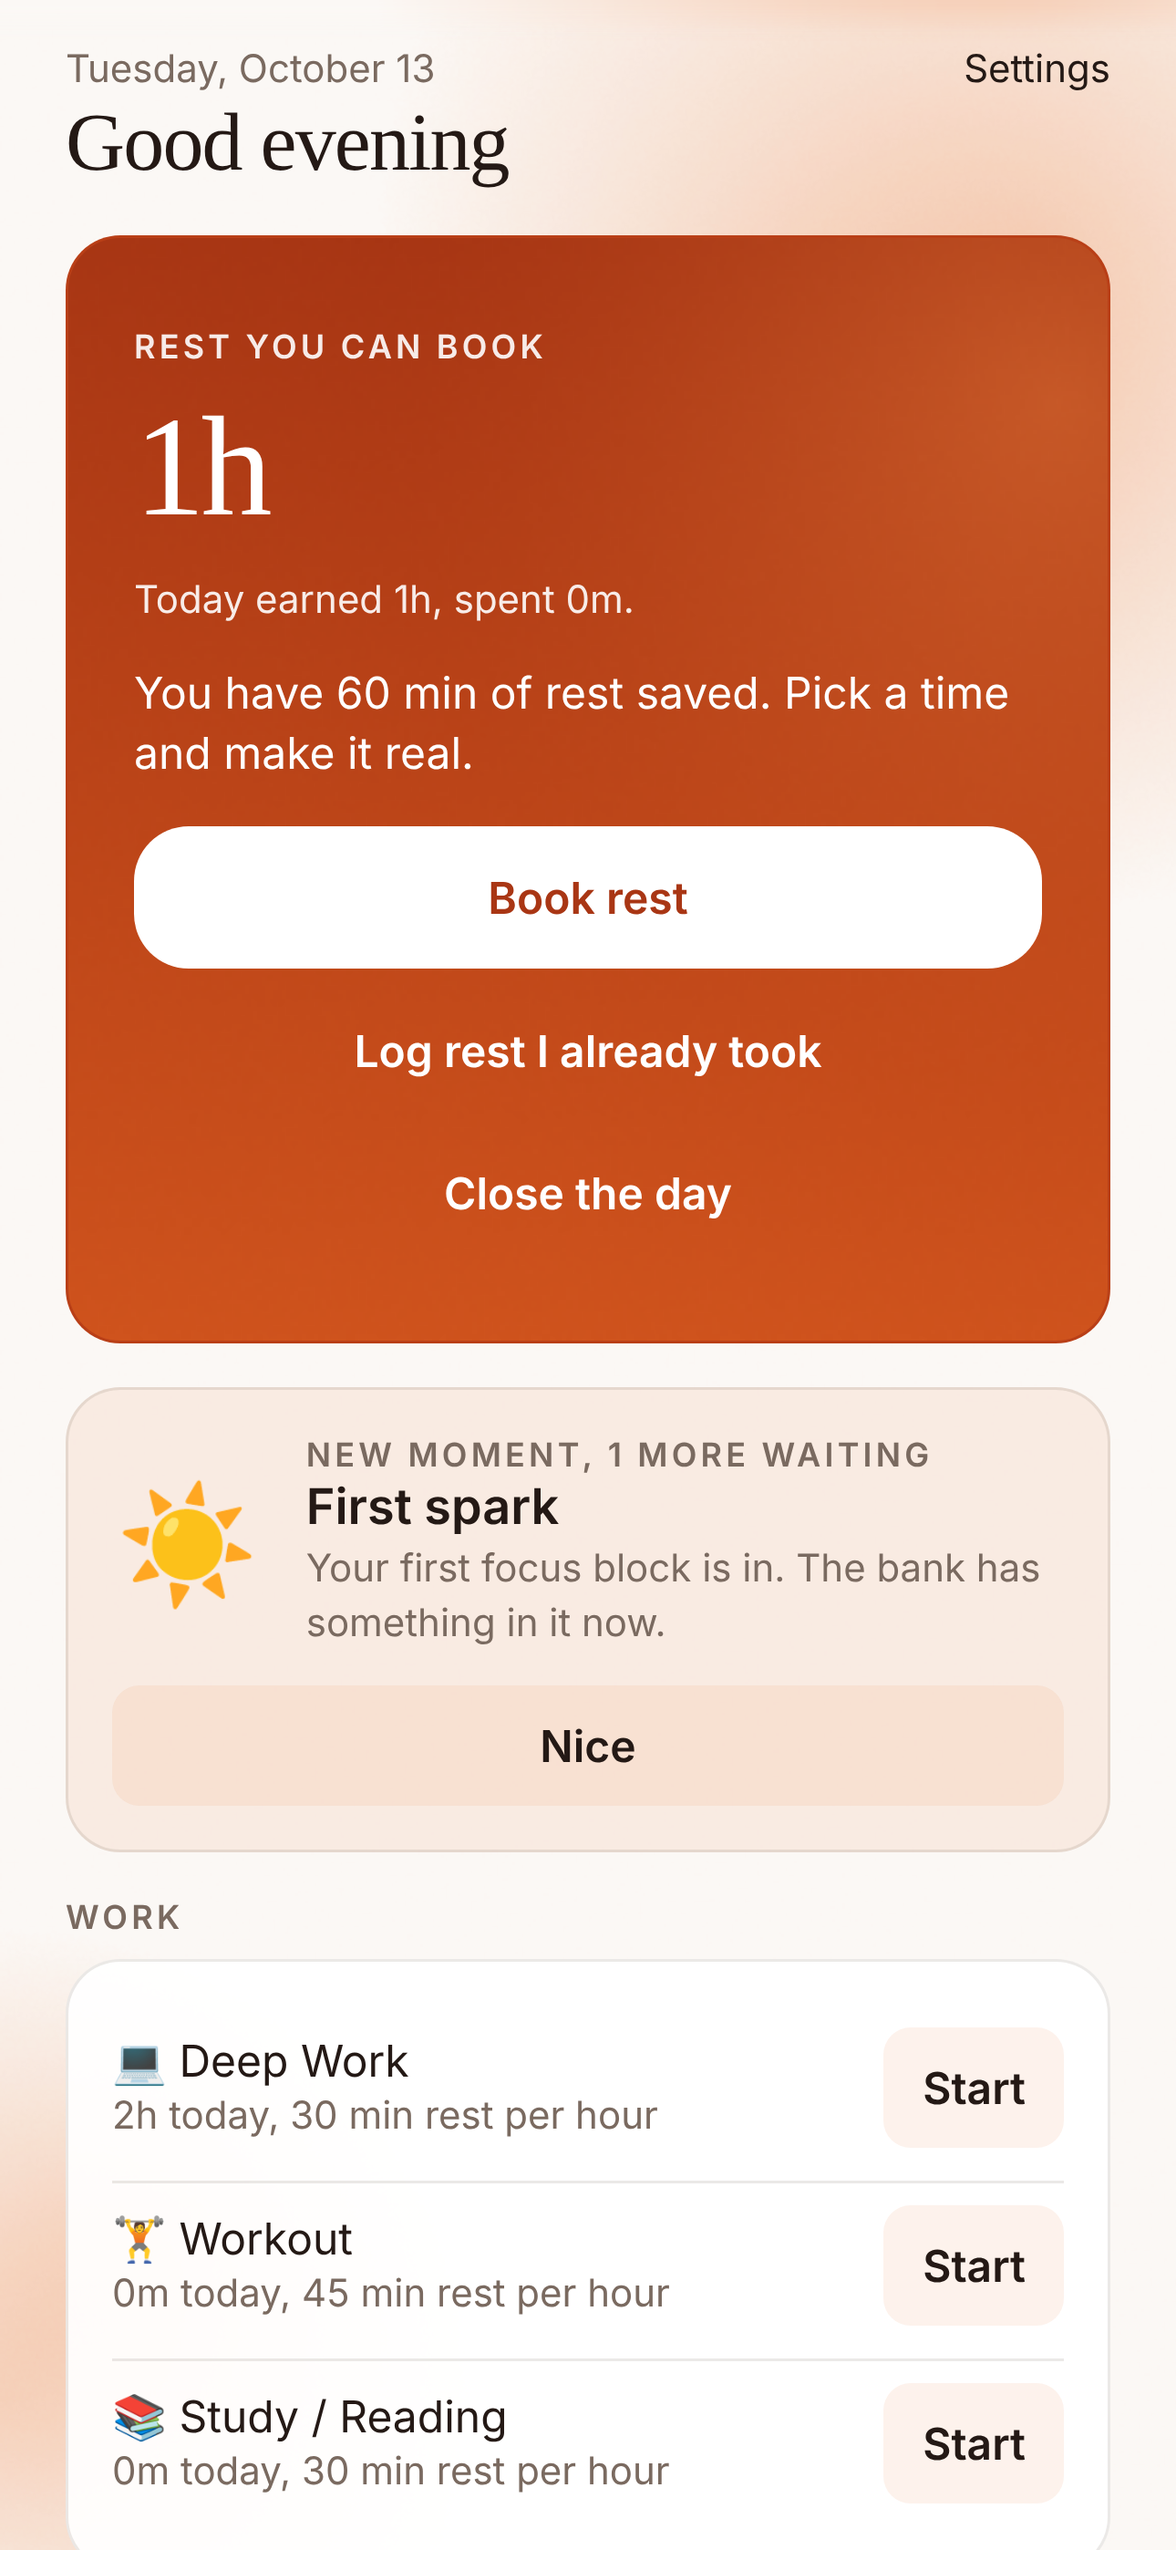
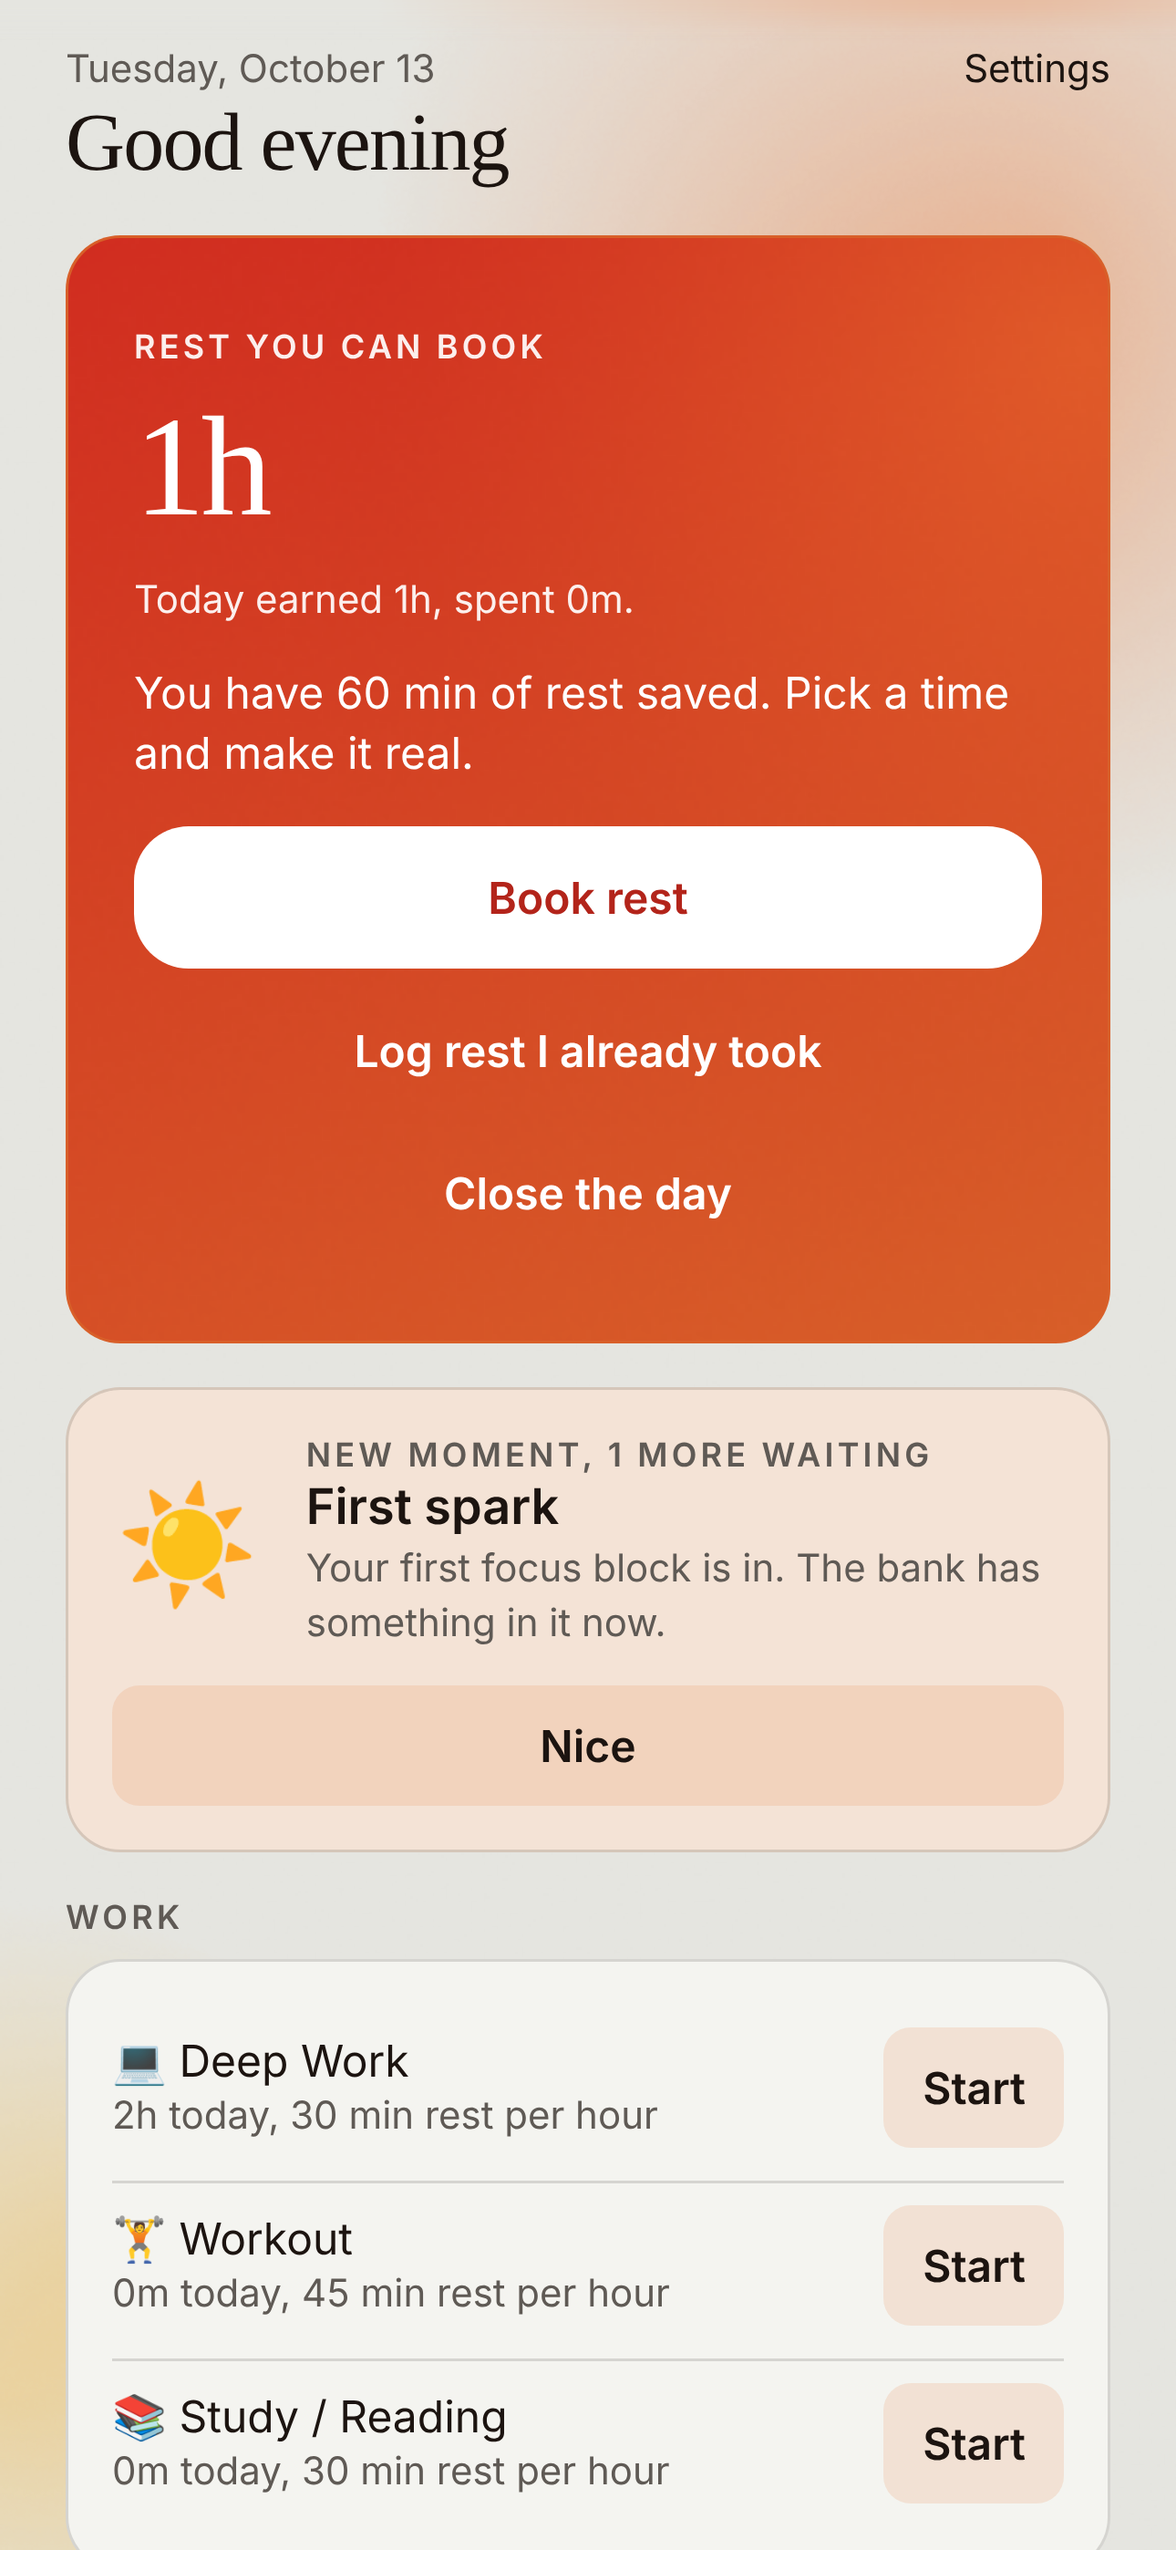
Take the palette strictly from the reference images
Colours are sampled from Mike's references: grey-white #e5e5e0, orange
#eb712e, amber #f0b846, red #d12d20 and the red-to-orange hero. Orbs are
orange top right and amber bottom left. Rest chips and rest bars use amber,
focus uses orange. Text stays dark, with a deeper red for small warning text.
Icon, splash, widget and store screenshots follow.

Claude-Session: https://claude.ai/code/session_019ffQuZEKGA3GPgQN2MLQP2

diff --git a/src/native/definitions.tsx b/src/native/definitions.tsx
@@ -30,30 +30,30 @@ export const RestWidget = createWidget('RestWidget', (props: WidgetSnapshot, env
 
   const status = focus ? (
     <HStack spacing={4}>
-      <Text modifiers={[font({ size: 12, weight: 'medium' }), foregroundStyle('#ffe2cf'), lineLimit(1)]}>Focus</Text>
+      <Text modifiers={[font({ size: 12, weight: 'medium' }), foregroundStyle('#e4dfcc'), lineLimit(1)]}>Focus</Text>
       <Text
         date={new Date(focus.startedAt)}
         dateStyle="timer"
-        modifiers={[font({ size: 12, weight: 'semibold' }), monospacedDigit(), foregroundStyle('#ffe2cf'), frame({ maxWidth: 70, alignment: 'leading' })]}
+        modifiers={[font({ size: 12, weight: 'semibold' }), monospacedDigit(), foregroundStyle('#e4dfcc'), frame({ maxWidth: 70, alignment: 'leading' })]}
       />
     </HStack>
   ) : next ? (
     <HStack spacing={4}>
-      <Text modifiers={[font({ size: 12 }), foregroundStyle('#ffe2cf'), lineLimit(1)]}>{next.title}</Text>
+      <Text modifiers={[font({ size: 12 }), foregroundStyle('#e4dfcc'), lineLimit(1)]}>{next.title}</Text>
       <Text date={new Date(next.startsAt)} dateStyle="time" modifiers={[font({ size: 12, weight: 'semibold' }), foregroundStyle('#ffffff')]} />
     </HStack>
   ) : (
-    <Text modifiers={[font({ size: 12 }), foregroundStyle('#ffe2cf'), lineLimit(1)]}>{avail >= 30 ? 'Book it so it happens' : 'Earn some with focus'}</Text>
+    <Text modifiers={[font({ size: 12 }), foregroundStyle('#e4dfcc'), lineLimit(1)]}>{avail >= 30 ? 'Book it so it happens' : 'Earn some with focus'}</Text>
   );
 
   return (
     <VStack
       alignment="leading"
       spacing={4}
-      modifiers={[padding({ all: 14 }), frame({ maxWidth: 10000, maxHeight: 10000, alignment: 'topLeading' }), containerBackground('#b93f17', 'widget'), widgetURL('shifttolife://')]}
+      modifiers={[padding({ all: 14 }), frame({ maxWidth: 10000, maxHeight: 10000, alignment: 'topLeading' }), containerBackground('#d12d20', 'widget'), widgetURL('shifttolife://')]}
     >
-      <Text modifiers={[font({ size: 11, weight: 'semibold' }), foregroundStyle('#ffe2cf'), textCase('uppercase')]}>Rest to book</Text>
-      <Text modifiers={[font({ size: 38, weight: 'bold', design: 'rounded' }), foregroundStyle(avail < 0 ? '#ffd0b8' : '#ffffff'), lineLimit(1)]}>{label}</Text>
+      <Text modifiers={[font({ size: 11, weight: 'semibold' }), foregroundStyle('#e4dfcc'), textCase('uppercase')]}>Rest to book</Text>
+      <Text modifiers={[font({ size: 38, weight: 'bold', design: 'rounded' }), foregroundStyle(avail < 0 ? '#f0b846' : '#ffffff'), lineLimit(1)]}>{label}</Text>
       <Spacer />
       {status}
     </VStack>
@@ -73,19 +73,19 @@ export const FocusActivity = createLiveActivity('FocusActivity', (props: FocusPr
   );
   return {
     banner: (
-      <HStack spacing={12} modifiers={[padding({ all: 14 }), activityBackgroundTint('#b93f17')]}>
+      <HStack spacing={12} modifiers={[padding({ all: 14 }), activityBackgroundTint('#d12d20')]}>
         <VStack alignment="leading" spacing={2}>
-          <Text modifiers={[font({ size: 13, weight: 'semibold' }), foregroundStyle('#ffe2cf'), lineLimit(1)]}>{props.name}</Text>
-          {timer(34, '#ffe2cf')}
-          <Text modifiers={[font({ size: 12 }), foregroundStyle('#ffe2cf')]}>{goal ? 'to your goal, then it counts up' : 'of focus, earning rest'}</Text>
+          <Text modifiers={[font({ size: 13, weight: 'semibold' }), foregroundStyle('#e4dfcc'), lineLimit(1)]}>{props.name}</Text>
+          {timer(34, '#e4dfcc')}
+          <Text modifiers={[font({ size: 12 }), foregroundStyle('#e4dfcc')]}>{goal ? 'to your goal, then it counts up' : 'of focus, earning rest'}</Text>
         </VStack>
         <Spacer />
       </HStack>
     ),
     compactLeading: <Text modifiers={[font({ size: 14 })]}>⏱</Text>,
-    compactTrailing: timer(14, '#ffb98a'),
+    compactTrailing: timer(14, '#ffffff'),
     minimal: <Text modifiers={[font({ size: 14 })]}>⏱</Text>,
     expandedCenter: <Text modifiers={[font({ size: 15, weight: 'semibold' }), lineLimit(1)]}>{props.name}</Text>,
-    expandedBottom: timer(26, '#ffb98a'),
+    expandedBottom: timer(26, '#ffffff'),
   };
 });

diff --git a/src/theme.ts b/src/theme.ts
@@ -1,26 +1,27 @@
 import { Platform } from 'react-native';
 
-// Design tokens. Light only: near-white walls, white cards, one saturated orange, soft orange orbs floating behind the
-// screens, and a deep orange "hero" surface for the one thing that matters on each screen. Rest is a pale apricot.
+// Design tokens. Every color is taken from the reference pictures (pale grey-white, orange, red-orange, amber), plus black ink
+// and white for text. Soft orange and amber orbs float behind the screens; a deep red-orange "hero" card carries the one thing
+// that matters on each screen. Nothing else.
 // scripts/make-images.py draws the icon, the orbs, the hero gradient and the status bar fade from these colors; run it after changing them.
 export const colors = {
-  bg: '#fbf8f5',
-  surface: 'rgba(255, 255, 255, 0.92)',
-  surfaceHigh: 'rgba(232, 112, 42, 0.09)',
-  border: 'rgba(60, 36, 24, 0.10)',
-  text: '#241915',
-  muted: '#7a6a60',
-  grind: '#e8702a', // work: orange
-  grindText: '#b83f12', // the same orange, dark enough to read as text on white
-  glow: '#f2ab80', // rest: pale apricot
-  good: '#f2ab80',
-  goodText: '#a14416',
-  danger: '#b83a22',
-  onAccent: '#241915', // text on orange and apricot fills
+  bg: '#e5e5e0', // the pale grey-white of the references
+  surface: '#f4f4f0', // cards: a lighter step of the same grey-white
+  surfaceHigh: 'rgba(235, 113, 46, 0.14)',
+  border: 'rgba(28, 20, 16, 0.14)',
+  text: '#1c1410',
+  muted: '#5f5a55',
+  grind: '#eb712e', // work: orange
+  grindText: '#b3241a', // a darker red-orange, for small text on the pale wall
+  glow: '#f0b846', // rest: sunny amber
+  good: '#f0b846',
+  goodText: '#7d5208',
+  danger: '#b3241a',
+  onAccent: '#1c1410', // text on orange and amber fills
   heroText: '#ffffff', // text on the deep orange hero card
-  heroMuted: 'rgba(255, 255, 255, 0.9)',
+  heroMuted: 'rgba(255, 255, 255, 0.92)',
   heroLine: 'rgba(255, 255, 255, 0.2)',
-  heroButtonText: '#a93614',
+  heroButtonText: '#b3241a',
 } as const;
 
 export const radius = { sm: 10, md: 20, pill: 9999 } as const;

diff --git a/src/ui/NewMoment.tsx b/src/ui/NewMoment.tsx
@@ -1,7 +1,7 @@
 import { useEffect, useState } from 'react';
 import { Animated, StyleSheet, View } from 'react-native';
 import { Moment } from '@/core';
-import { colors, space } from '@/theme';
+import { space } from '@/theme';
 import { Button } from '@/ui/Button';
 import { Card } from '@/ui/Card';
 import { success } from '@/ui/haptics';
@@ -40,7 +40,7 @@ export function NewMoment({ moment, more, onSeen }: Props) {
 }
 
 const styles = StyleSheet.create({
-  card: { backgroundColor: colors.surfaceHigh, gap: space.md },
+  card: { backgroundColor: '#f4e3d6', gap: space.md },
   row: { flexDirection: 'row', alignItems: 'center', gap: space.lg },
   emoji: { fontSize: 44 },
   text: { flex: 1, gap: 2 },

diff --git a/src/app/index.tsx b/src/app/index.tsx
@@ -103,7 +103,7 @@ export default function Today() {
 
       <Card hero style={styles.bank}>
         <AppText variant="label" color={colors.heroMuted}>Rest you can book</AppText>
-        <AppText variant="display" color={avail < 0 ? '#ffe2cf' : colors.heroText} style={styles.bankNumber}>
+        <AppText variant="display" color={avail < 0 ? '#e4dfcc' : colors.heroText} style={styles.bankNumber}>
           {fmtMins(avail)}
         </AppText>
         <AppText variant="small" color={colors.heroMuted}>

diff --git a/src/ui/Card.tsx b/src/ui/Card.tsx
@@ -38,7 +38,7 @@ const styles = StyleSheet.create({
     borderColor: colors.border,
     gap: space.xs,
   },
-  hero: { backgroundColor: '#b93f17', borderColor: 'transparent', overflow: 'hidden' },
+  hero: { backgroundColor: '#d85f29', borderColor: 'transparent', overflow: 'hidden' },
   heroImage: { position: 'absolute', top: 0, left: 0, width: '100%', height: '100%' },
   pressed: { opacity: 0.85 },
 });

diff --git a/scripts/make-images.py b/scripts/make-images.py
@@ -13,26 +13,27 @@ from PIL import Image, ImageDraw
 
 OUT = Path(__file__).resolve().parent.parent / 'assets' / 'images'
 
-# Keep in step with src/theme.ts and app.json.
-BG = (0xfb, 0xf8, 0xf5)
-ORANGE = (0xe8, 0x70, 0x2a)  # work
-APRICOT = (0xf2, 0xab, 0x80)  # rest
-HERO_TOP = (0xa8, 0x36, 0x14)  # deep orange, darkest where the small text sits
-HERO_BOTTOM = (0xcf, 0x53, 0x1d)
-ORB = (0xe8, 0x70, 0x2a)
+# Keep in step with src/theme.ts and app.json. Every colour here was sampled from the reference pictures.
+BG = (0xe5, 0xe5, 0xe0)
+CREAM = (0xe4, 0xdf, 0xcc)
+ORANGE = (0xeb, 0x71, 0x2e)  # work
+AMBER = (0xf0, 0xb8, 0x46)  # rest
+RED = (0xd1, 0x2d, 0x20)
+DEEP = (0xd8, 0x5f, 0x29)  # the orange at the foot of the hero card
 
-# Two orbs on a screen-shaped canvas (fractions of its width and height). A big one rising off the top right, a small
-# one at the bottom left. `lit` moves the brightest point inside the orb, which is what makes it look round.
+# Two orbs on a screen-shaped canvas (fractions of its width and height). A big orange one rising off the top right, a
+# smaller amber one at the bottom left. `lit` moves the brightest point inside the orb, which is what makes it look round.
 ORBS = [
-    dict(cx=0.88, cy=0.10, r=0.56, strength=0.52, lit=(-0.32, 0.36)),
-    dict(cx=0.00, cy=0.94, r=0.40, strength=0.44, lit=(0.30, -0.32)),
+    dict(cx=0.88, cy=0.10, r=0.56, strength=0.62, lit=(-0.32, 0.36), color=ORANGE),
+    dict(cx=0.00, cy=0.94, r=0.42, strength=0.62, lit=(0.30, -0.32), color=AMBER),
 ]
 ASPECT = 0.46  # width / height of the canvas, about a modern phone
 
 
-def orb_alpha(x, y, aspect: float = ASPECT):
-    """Soft orbs over the canvas at (x, y), both given as fractions. Lower on the edge, brightest near `lit`."""
+def orbs_layer(x, y, aspect: float = ASPECT):
+    """Soft orbs over the canvas at (x, y), both given as fractions: the opacity and the colour at each point."""
     total = np.zeros_like(x)
+    colour = np.zeros(x.shape + (3,))
     for o in ORBS:
         dx = (x - o['cx']) / o['r']
         dy = (y - o['cy']) / (o['r'] * aspect)
@@ -41,18 +42,21 @@ def orb_alpha(x, y, aspect: float = ASPECT):
         lit = np.sqrt((dx - lx) ** 2 + (dy - ly) ** 2) / 1.1
         body = np.clip(1 - d, 0, 1) ** 0.8  # soft edge, no hard line
         core = np.clip(1 - lit, 0, 1) ** 1.4
-        total = np.maximum(total, o['strength'] * body * (0.35 + 0.65 * core))
-    return np.clip(total, 0, 1)
+        a = o['strength'] * body * (0.35 + 0.65 * core)
+        colour += a[..., None] * np.array(o['color'], dtype=np.float64)
+        total += a
+    total_safe = np.where(total > 1e-6, total, 1.0)
+    return np.clip(total, 0, 1), colour / total_safe[..., None]
 
 
 def orbs_png(path: Path) -> None:
     """The orbs, as a transparent PNG the size of a screen. Stretched over the whole screen behind everything."""
     w, h = 460, 1000
     y, x = np.mgrid[0:h, 0:w].astype(np.float64)
-    a = orb_alpha((x + 0.5) / w, (y + 0.5) / h)
+    a, rgb = orbs_layer((x + 0.5) / w, (y + 0.5) / h)
     a = np.clip(a + (np.random.default_rng(3).random((h, w)) - 0.5) * (3.0 / 255), 0, 1)  # no 8-bit bands
     rgba = np.zeros((h, w, 4), dtype=np.uint8)
-    rgba[..., 0], rgba[..., 1], rgba[..., 2] = ORB
+    rgba[..., :3] = np.round(rgb).astype(np.uint8)
     rgba[..., 3] = np.round(a * 255).astype(np.uint8)
     Image.fromarray(rgba, 'RGBA').save(path)
 
@@ -63,8 +67,8 @@ def fade_png(path: Path) -> None:
     w, h = 256, 32
     just_below_status_bar = 0.075  # of the screen height
     x = (np.arange(w) + 0.5) / w
-    a = orb_alpha(x, np.full_like(x, just_below_status_bar))
-    wall = np.array(BG, dtype=np.float64) * (1 - a[:, None]) + np.array(ORB, dtype=np.float64) * a[:, None]
+    a, rgb = orbs_layer(x, np.full_like(x, just_below_status_bar))
+    wall = np.array(BG, dtype=np.float64) * (1 - a[:, None]) + rgb * a[:, None]
     t = (np.arange(h) + 0.5) / h
     opacity = 1 - t * t * (3 - 2 * t)  # smoothstep, so it eases in and out
     rgba = np.zeros((h, w, 4), dtype=np.uint8)
@@ -73,16 +77,20 @@ def fade_png(path: Path) -> None:
     Image.fromarray(rgba, 'RGBA').save(path)
 
 
+def red_to_orange(x, y):
+    """Red in the top left corner running into orange, with an orange glow in the top right: the hero card and the icon."""
+    t = np.clip(x * 0.3 + y * 0.7, 0, 1)[..., None]
+    rgb = np.array(RED, dtype=np.float64) * (1 - t) + np.array(DEEP, dtype=np.float64) * t
+    d = np.sqrt((x - 0.98) ** 2 + (y - 0.1) ** 2) / 0.7
+    glow = (np.clip(1 - d, 0, 1) ** 1.5 * 0.55)[..., None]
+    return rgb * (1 - glow) + np.array(ORANGE, dtype=np.float64) * glow
+
+
 def hero_png(path: Path) -> None:
-    """The deep orange of the hero card: darker at the top, where the small text is, with a soft light orb in the corner."""
+    """The deep red-orange of the hero card."""
     w, h = 256, 256
     y, x = np.mgrid[0:h, 0:w].astype(np.float64)
-    x, y = (x + 0.5) / w, (y + 0.5) / h
-    top, bottom = np.array(HERO_TOP, dtype=np.float64), np.array(HERO_BOTTOM, dtype=np.float64)
-    rgb = top * (1 - y[..., None]) + bottom * y[..., None]
-    d = np.sqrt((x - 0.95) ** 2 + (y - 0.15) ** 2) / 0.65
-    glow = np.clip(1 - d, 0, 1) ** 1.6 * 0.38
-    rgb = rgb * (1 - glow[..., None]) + np.array((0xf0, 0x8a, 0x45), dtype=np.float64) * glow[..., None]
+    rgb = red_to_orange((x + 0.5) / w, (y + 0.5) / h)
     rgb += (np.random.default_rng(4).random((h, w, 1)) - 0.5) * 1.5
     Image.fromarray(np.clip(np.round(rgb), 0, 255).astype(np.uint8), 'RGB').save(path)
 
@@ -117,28 +125,22 @@ def arcs(size: int, background, left, right, scale: float = 1.0) -> Image.Image:
 
 
 def orange_sky(size: int) -> Image.Image:
-    """The icon background: the deep orange of the hero card, with a lighter orb glowing in a corner."""
+    """The icon background: the hero card's red running into orange."""
     y, x = np.mgrid[0:size, 0:size].astype(np.float64)
-    x, y = (x + 0.5) / size, (y + 0.5) / size
-    t = np.clip((x * 0.35 + y * 0.65), 0, 1)
-    rgb = np.array(HERO_TOP, dtype=np.float64) * (1 - t[..., None]) + np.array((0xe0, 0x62, 0x22), dtype=np.float64) * t[..., None]
-    d = np.sqrt((x - 0.82) ** 2 + (y - 0.12) ** 2) / 0.8
-    glow = np.clip(1 - d, 0, 1) ** 1.5 * 0.55
-    rgb = rgb * (1 - glow[..., None]) + np.array((0xff, 0xa0, 0x5c), dtype=np.float64) * glow[..., None]
+    rgb = red_to_orange((x + 0.5) / size, (y + 0.5) / size)
     return Image.fromarray(np.clip(np.round(rgb), 0, 255).astype(np.uint8), 'RGB')
 
 
-WHITE = (255, 255, 255)
 
 if __name__ == '__main__':
     OUT.mkdir(parents=True, exist_ok=True)
     orbs_png(OUT / 'orbs.png')
     fade_png(OUT / 'fade.png')
     hero_png(OUT / 'hero.png')
-    arcs(1024, orange_sky(1024), WHITE, (0xff, 0xd2, 0xb0)).convert('RGB').save(OUT / 'icon.png')
-    arcs(400, None, ORANGE, APRICOT, 0.95).save(OUT / 'splash-icon.png')
-    arcs(48, orange_sky(48), WHITE, (0xff, 0xd2, 0xb0), 1.15).convert('RGB').save(OUT / 'favicon.png')
-    arcs(512, None, WHITE, (0xff, 0xd2, 0xb0), 0.62).save(OUT / 'android-icon-foreground.png')
+    arcs(1024, orange_sky(1024), CREAM, AMBER).convert('RGB').save(OUT / 'icon.png')
+    arcs(400, None, ORANGE, AMBER, 0.95).save(OUT / 'splash-icon.png')
+    arcs(48, orange_sky(48), CREAM, AMBER, 1.15).convert('RGB').save(OUT / 'favicon.png')
+    arcs(512, None, CREAM, AMBER, 0.62).save(OUT / 'android-icon-foreground.png')
     orange_sky(512).convert('RGBA').save(OUT / 'android-icon-background.png')
     arcs(432, None, (255, 255, 255), (255, 255, 255), 0.62).save(OUT / 'android-icon-monochrome.png')
     print('wrote', ', '.join(sorted(p.name for p in OUT.glob('*.png'))))
